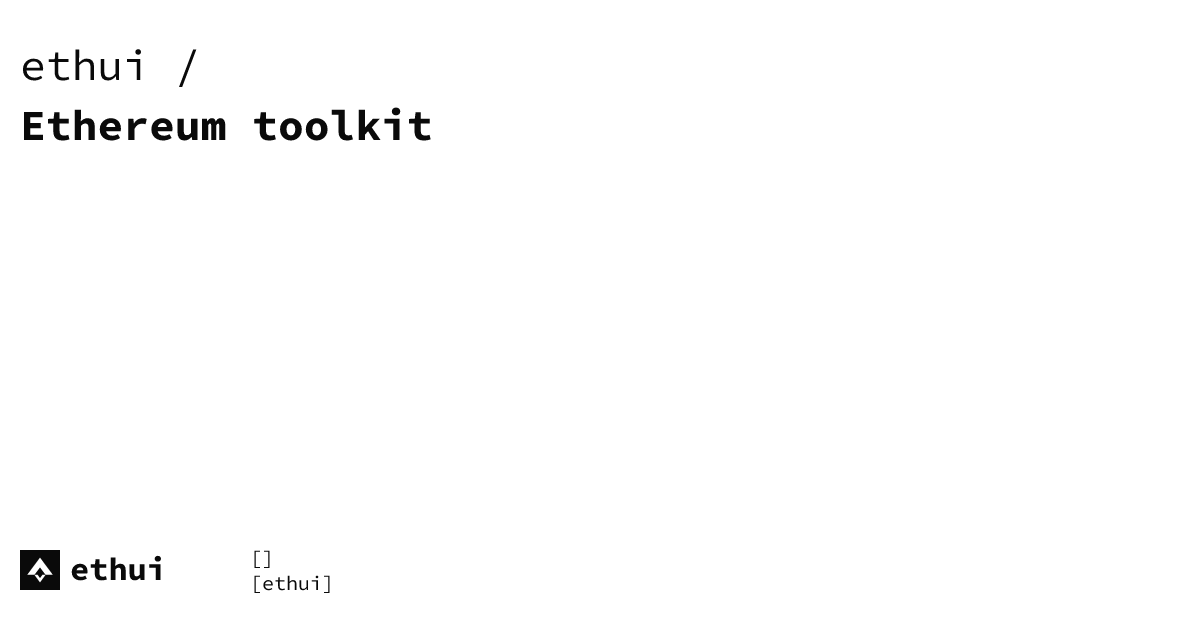
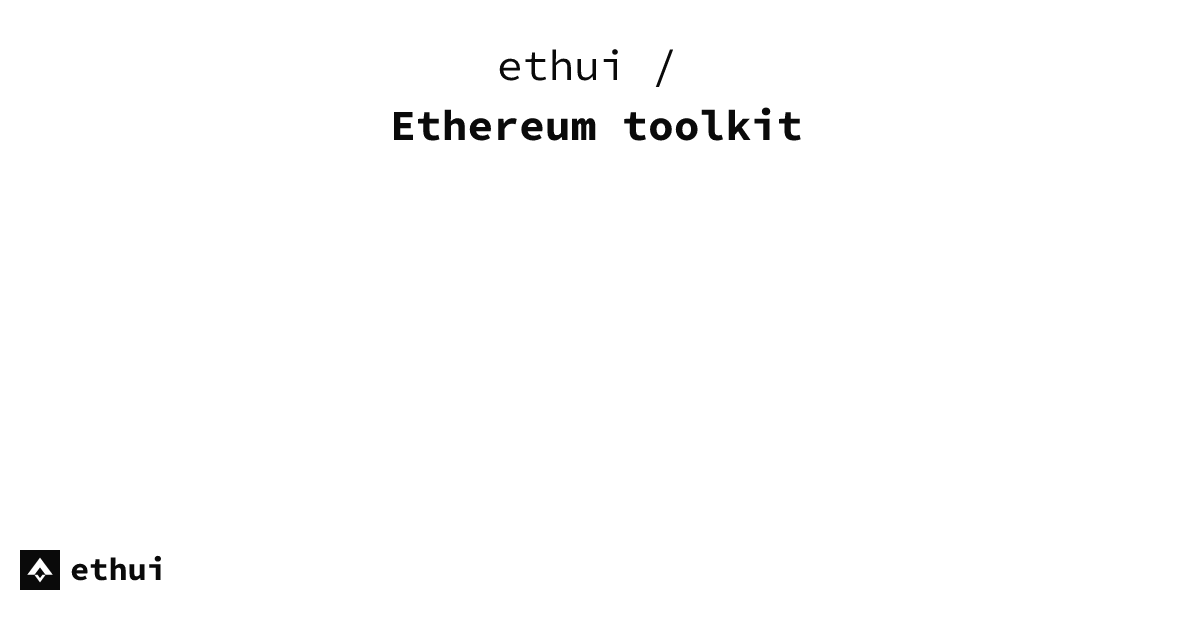
Center default OG title and remove meta

diff --git a/scripts/generate-default-og.ts b/scripts/generate-default-og.ts
@@ -28,12 +28,30 @@ async function main() {
   );
 
   const template = await fs.readFile(templatePath, "utf-8");
+  const dateAuthorBlock = `    <tspan font-size="20">
+      <tspan x="250" y="565">
+        [{{DATE}}]
+      </tspan>
+      <tspan x="250" y="590">
+        [{{AUTHOR}}]
+      </tspan>
+    </tspan>
+`;
   const fullPaneTemplate = template
     .replace(
       '<rect width="550" height="630" transform="translate(0 0.354)" fill="white"/>',
       '<rect width="1200" height="630" fill="white"/>',
     )
-    .replace('<rect x="550" width="100%" height="630" fill="#888888"/>', "");
+    .replace('<rect x="550" width="100%" height="630" fill="#888888"/>', "")
+    .replace(dateAuthorBlock, "")
+    .replace(
+      '<tspan x="20" y="80">',
+      '<tspan x="600" y="80" text-anchor="middle">',
+    )
+    .replace(
+      '<tspan x="20" y="140" font-weight="bold">',
+      '<tspan x="600" y="140" font-weight="bold" text-anchor="middle">',
+    );
   const svg = fullPaneTemplate
     .replace("{{TYPE}}", escapeXml("site"))
     .replace("{{DATE}}", escapeXml(""))
